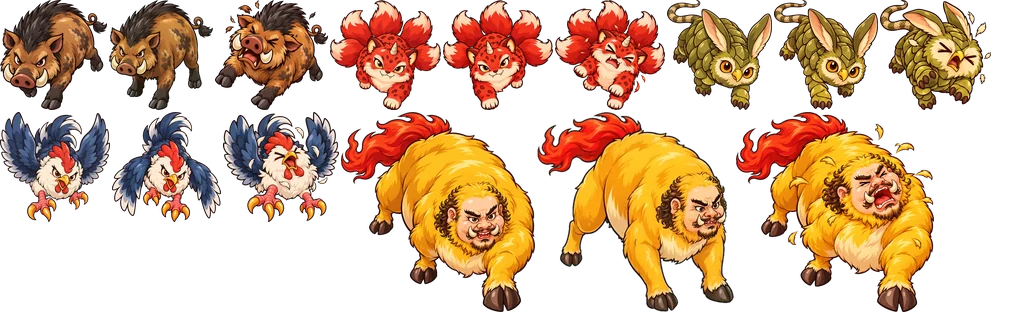
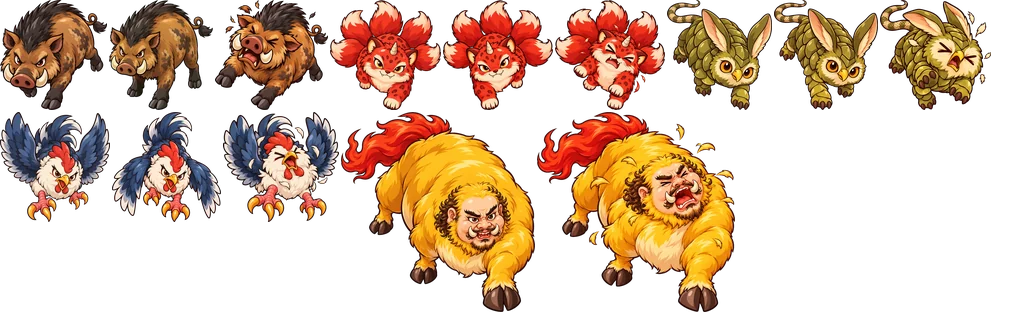
lingjing 守炉: 合窳 is exactly 守墙关's painted boss, as 撒豆成兵 shows it (walk + hit frames; the hit frame while it wails), no FLUX second step (Hanli 10-20: 「撒豆成兵的是对的, 守炉也更新成一样的吧」)

Changed region(s): [[0.5, 0.3462, 0.9375, 1.0]]

diff --git a/lingjing/tools/paint-shoulu-flux.py b/lingjing/tools/paint-shoulu-flux.py
@@ -8,7 +8,7 @@
 What draw.js drew in code: the talismans (four kinds × three levels), the 丹炉, the ground of each of the five
 maps, and the pines and rocks round the road. The road itself stays drawn from the level's data, on the
 painted ground. The beasts are 守墙's (Codex comic, art/games/shouqiang/<beast>-walk-*/hit: one 野猪 serves
-every kit, game-kit.md § Shared assets); FLUX paints only the frames 守墙 lacks (野猪 and 合窳's second step),
+every kit, game-kit.md § Shared assets); FLUX paints only 野猪's second step (合窳 stays exactly 守墙关's / 撒豆成兵's, Hanli 10-20),
 as edit passes from their first step. `cut` packs the beasts too: scripts/games/shoulu/art/beasts.webp + .json.
 """
 import json, sys
@@ -65,7 +65,6 @@ STEP = ('The attached image is the MASTER drawing of this beast: draw the SAME b
         'same size and the same three-quarter view, only the legs change: the other step of its walk, the legs '
         'that were forward now back and the others forward. ' + fc.ON_GREEN)
 JOBS['yezhu-walk-2'] = dict(w=640, h=640, refs=[QIANG / 'yezhu-walk-1.green.webp'], key='green', prompt=STEP)
-JOBS['heyu-walk-2'] = dict(w=640, h=640, refs=[QIANG / 'heyu-walk-1.green.webp'], key='green', prompt=STEP)
 
 # Looked at 2026-10-20 (2 seeds each): every talisman reads its kind by shape (sword, flame, snowflake, bolt) with no
 # writing; the three levels climb post → lacquered pillar → roofed stone shrine. Grounds: flowers, gravel, herbs,
@@ -73,7 +72,7 @@ JOBS['heyu-walk-2'] = dict(w=640, h=640, refs=[QIANG / 'heyu-walk-1.green.webp']
 KEPT = {'tower-jian-1': 2, 'tower-jian-2': 2, 'tower-jian-3': 1, 'tower-huo-1': 2, 'tower-huo-2': 2, 'tower-huo-3': 1,
         'tower-han-1': 1, 'tower-han-2': 2, 'tower-han-3': 1, 'tower-lei-1': 1, 'tower-lei-2': 2, 'tower-lei-3': 1,
         'furnace': 1, 'ground-shiao': 1, 'ground-shanlu': 2, 'ground-yaoyuan': 1, 'ground-houshan': 1, 'ground-heisong': 1,
-        'pine': 1, 'rock': 2, 'bush': 2, 'yezhu-walk-2': 1, 'heyu-walk-2': 1}
+        'pine': 1, 'rock': 2, 'bush': 2, 'yezhu-walk-2': 1}
 
 
 def cut():
@@ -94,7 +93,7 @@ def cut():
 
 
 BEASTS = {'yezhu': ['walk-1', 'walk-2', 'hit'], 'zheng': ['walk-1', 'walk-2', 'hit'], 'qiuyu': ['walk-1', 'walk-2', 'hit'],
-          'qique': ['walk-1', 'walk-2', 'hit'], 'heyu': ['walk-1', 'walk-2', 'hit']}
+          'qique': ['walk-1', 'walk-2', 'hit'], 'heyu': ['walk-1', 'hit']}  # 合窳 exactly as 撒豆成兵 shows it (Hanli 10-20)
 
 
 def beasts():
